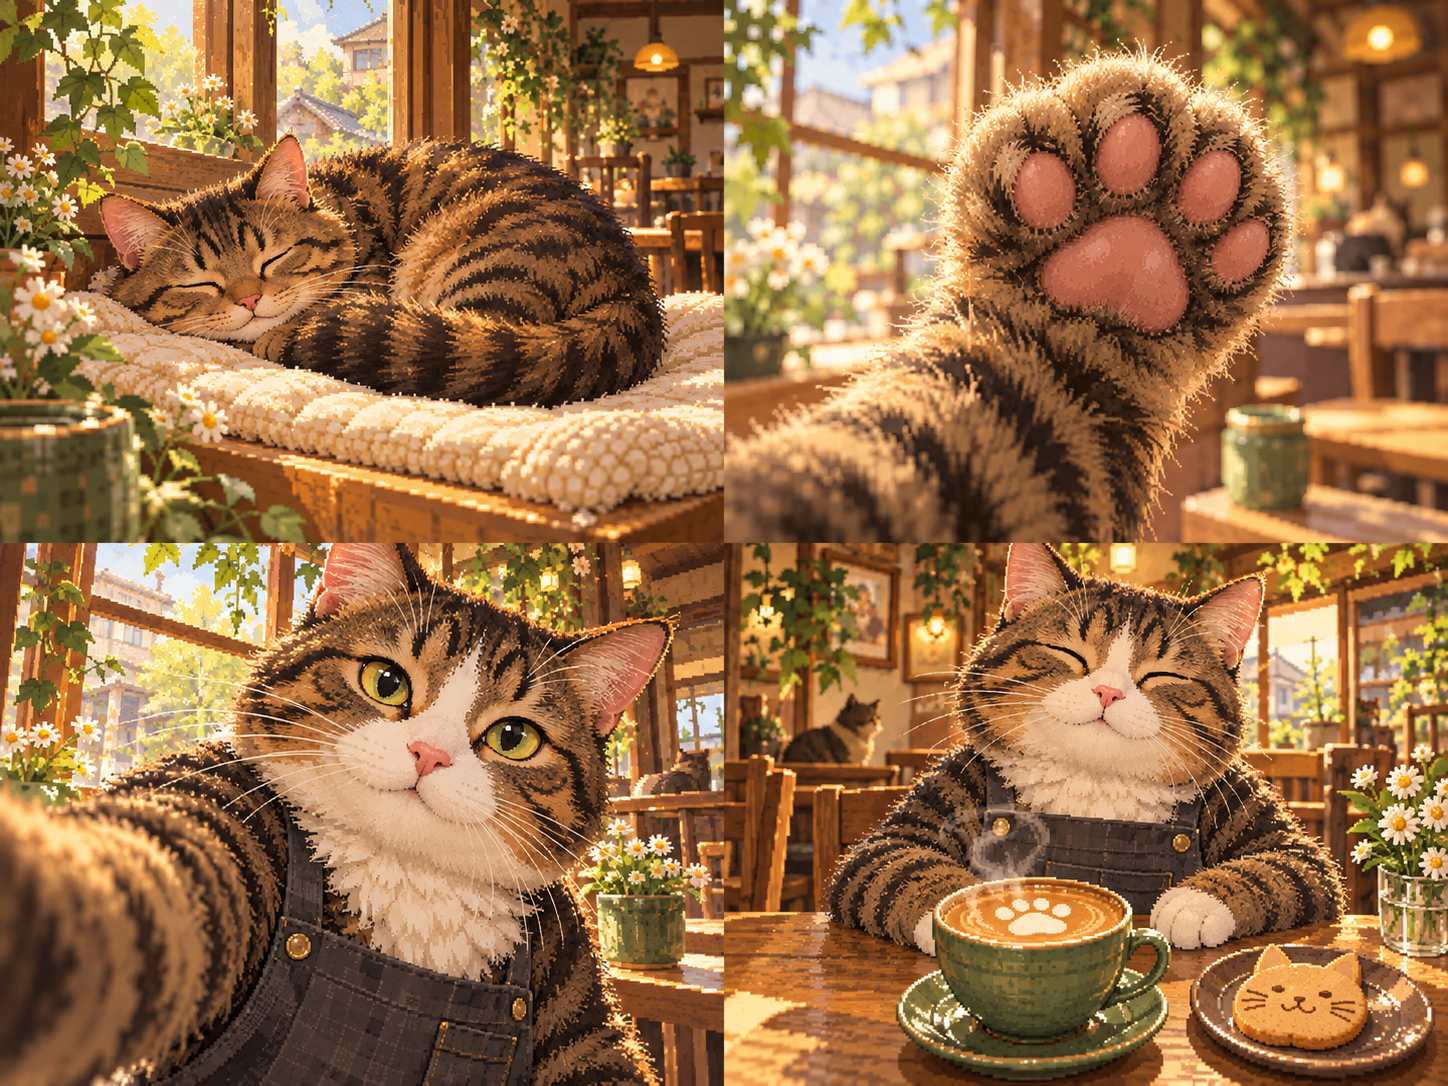
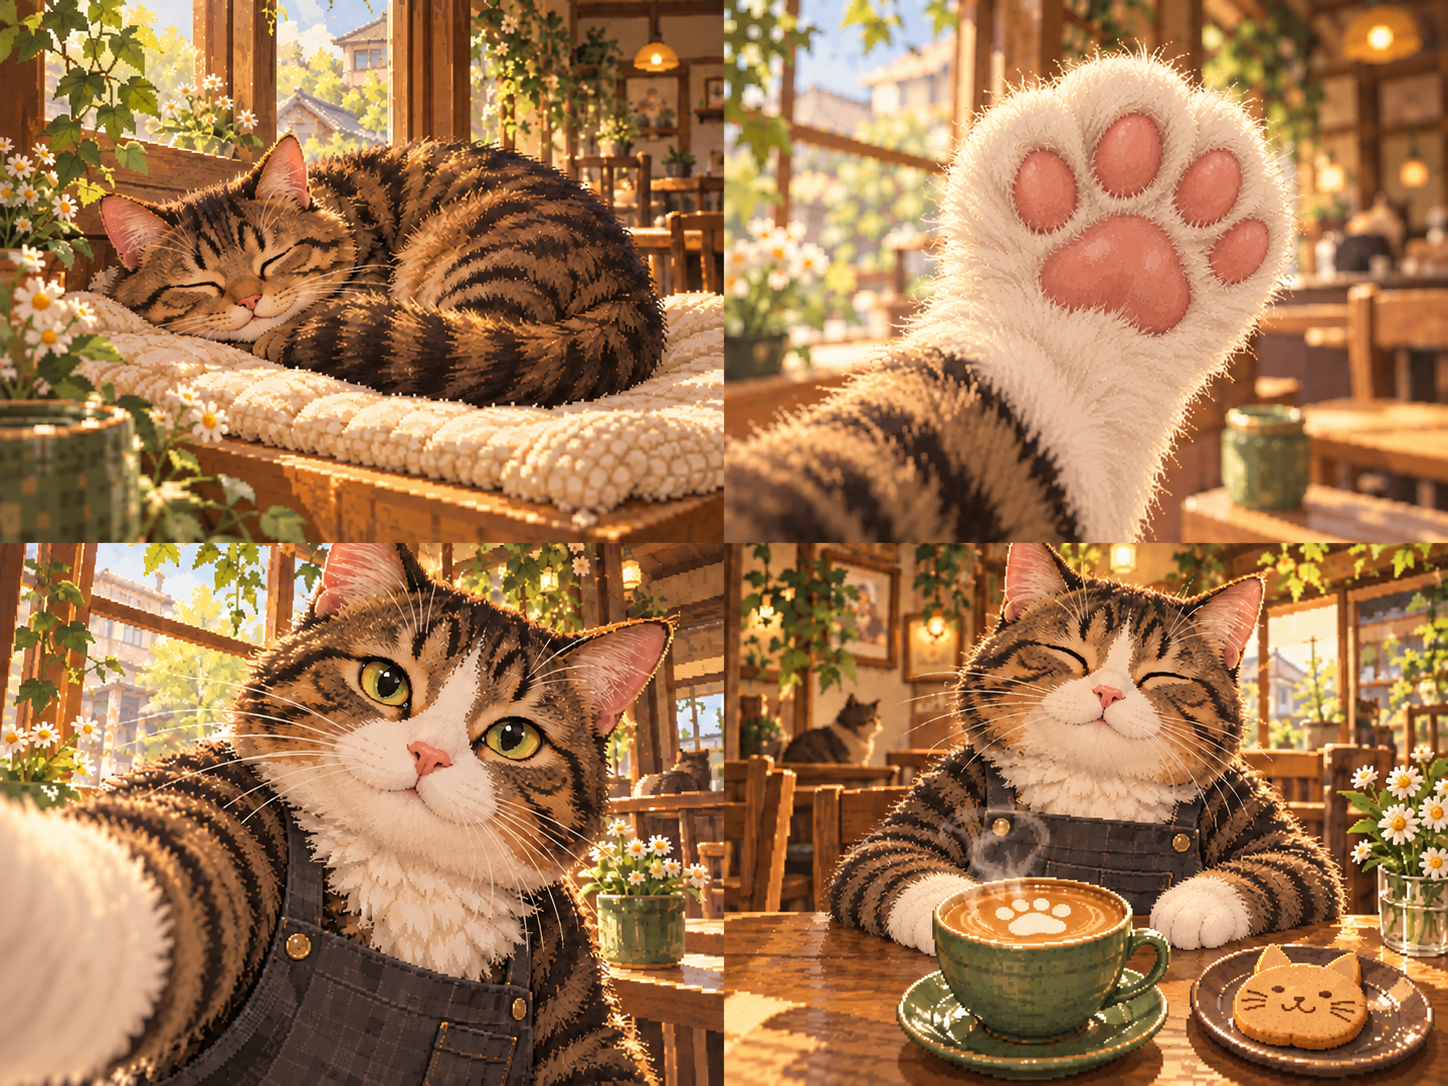
Correct Grio white paws in Nyax photo artwork

diff --git a/index.html b/index.html
@@ -339,7 +339,7 @@ button small { display: block; font-size: 11px; color: #e6d3b8; white-space: now
 <script src="./cat-shifts.js?v=20261012-cat-shifts"></script>
 <script src="./kitchen-art.js?v=20261012-walk"></script>
 <script src="./kitchen-wash.js?v=20261012-kitchen-sink"></script>
-<script src="./nyax-art.js?v=20261012-generated-grio-photos"></script>
+<script src="./nyax-art.js?v=20261012-white-paws"></script>
 <script src="./guest-art.js?v=20261012-walk"></script>
 <script src="./cat-motions.js?v=20261012-single-pass"></script><script src="./stray-art.js?v=20261012-single-pass"></script><script src="./rear-walk.js?v=20261012-single-pass"></script>
 <script src="./cafe-art.js?v=20261012-walk"></script>

diff --git a/nyax-art.js b/nyax-art.js
@@ -46,7 +46,7 @@
   const ownerReady = new Promise(resolve => {
     ownerImage.onload = () => { ownerLoaded = true; ownerCache.clear(); resolve(true); };
     ownerImage.onerror = () => resolve(false);
-    ownerImage.src = new URL('./nyax-grio-atlas.png?v=20261012-generated', document.baseURI).href;
+    ownerImage.src = new URL('./nyax-grio-atlas.png?v=20261012-white-paws', document.baseURI).href;
   });
   function ownerPhoto(kind, sprites, faces) {
     if (!Object.hasOwn(ownerCells, kind)) return null;
